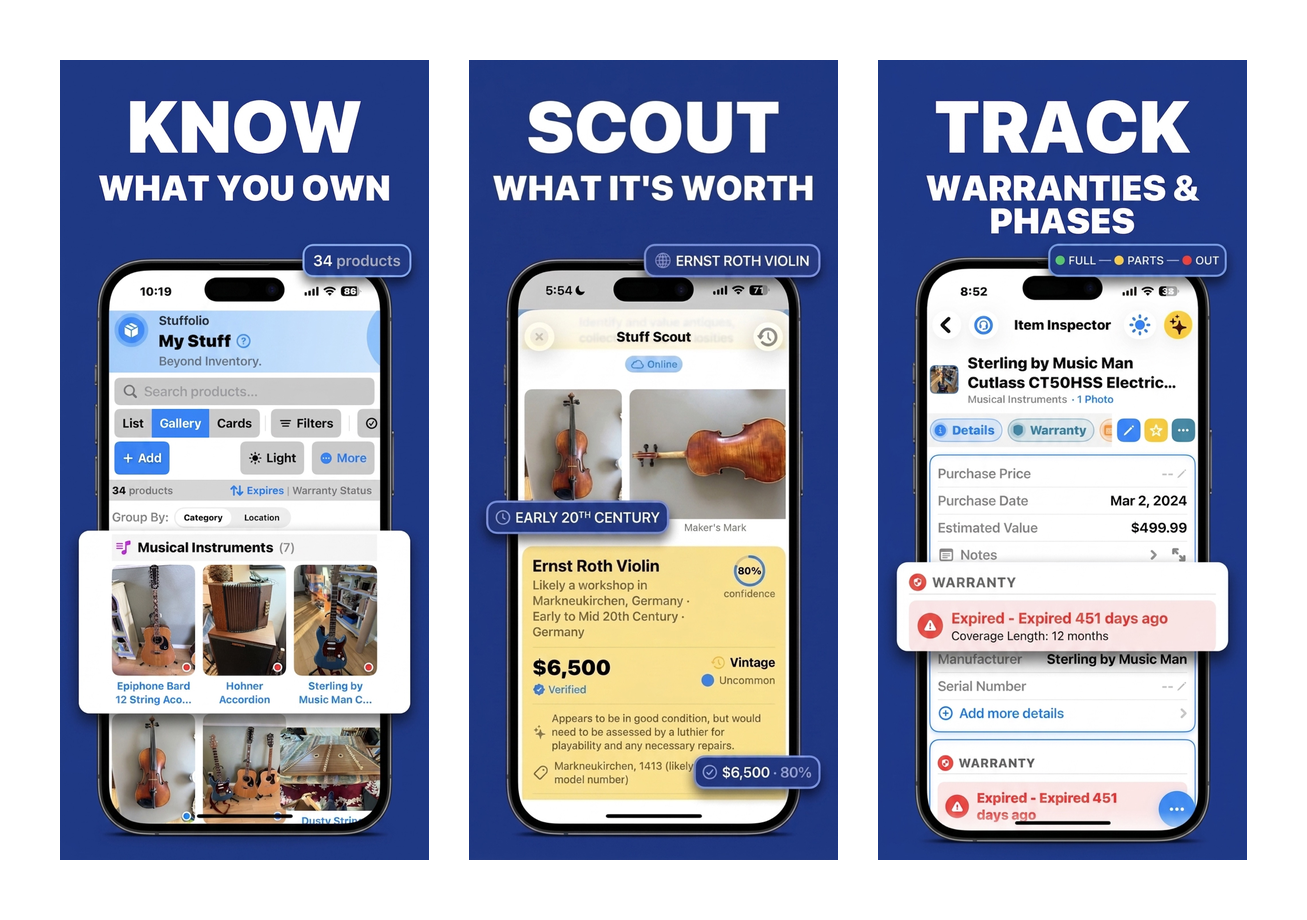
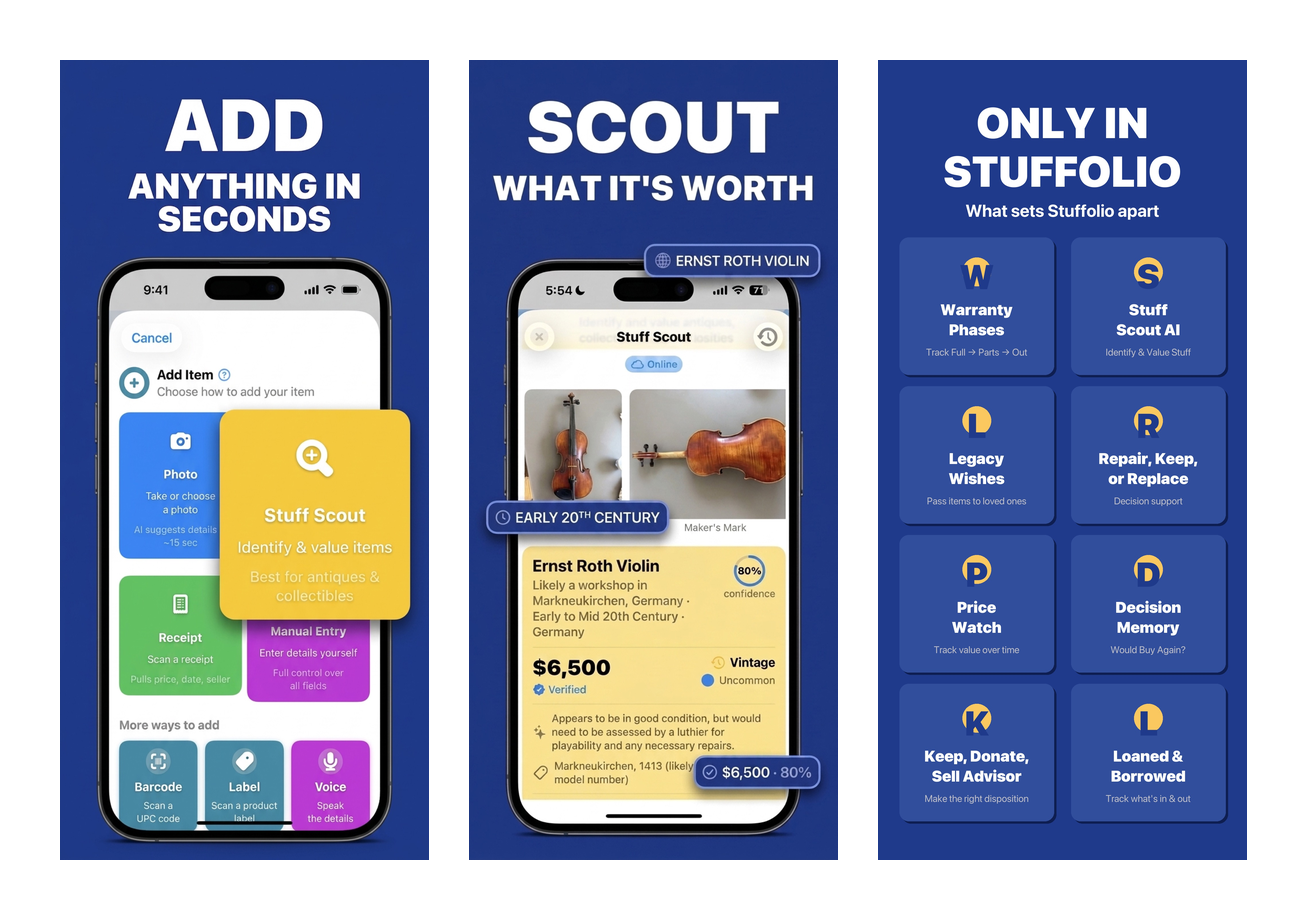
feat(site): refresh ASO screenshots set (6 → 10), swap Decide → Donate/Sell, brand the H1
Summary
- Refresh hero showcase image (new ADD / SCOUT / ONLY IN STUFFOLIO three-up)
- Expand iOS lightbox set from 6 → 10 screenshots (add ADD ANYTHING IN SECONDS at slot 1, SCOUT THRIFT FINDS at slot 8, full-bleed info graphics ONLY IN STUFFOLIO and HONEST PRICING at slots 9-10)
- Swap slot 6 from "Decide: Repair, Keep, or Replace" to "Donate or Sell Advisor" (clean device-frame composition showing $264 donate vs $1,044 sell head-to-head decision UI)
- Brand the homepage H1 with the literal word "Stuffolio" colored to logo teal (#2BA5A0 light / #54D2CA dark), "stuff" recolored from animated gradient to solid logo violet (#5A4BF5)
- Remove orphan @user gradientShift CSS now that no element on index.html uses it
- Remove GitHub URL footer from hero showcase (back to 1307×920)

Description

The ASO screenshot set this PR ships is the locked 10-screenshot lineup used for App Store submission as well. iOS carousel order and lightbox order now match App Store Connect slot order exactly. Slot 6 swap reflects the user's choice to feature the Donate-or-Sell decision support over the previous Repair-Keep-Replace advisor (RKR remains as a feature card in slot 9 "Only in Stuffolio" grid).
[…]

diff --git a/index.html b/index.html
@@ -131,17 +131,14 @@
   <style>
     .hero { display: block; }
 
-    .gradient-text {
-      background: linear-gradient(135deg, var(--accent), var(--accent2), var(--accent));
-      background-size: 200% 200%;
-      -webkit-background-clip: text;
-      -webkit-text-fill-color: transparent;
-      background-clip: text;
-      animation: gradientShift 8s ease infinite;
+    .brand-name {
+      color: #54D2CA;
     }
-    @keyframes gradientShift {
-      0%, 100% { background-position: 0% 50%; }
-      50% { background-position: 100% 50%; }
+    html.light-mode .brand-name {
+      color: #2BA5A0;
+    }
+    .stuff-accent {
+      color: #5A4BF5;
     }
 
     .lifecycle-strip {
@@ -472,14 +469,14 @@
             <img loading="lazy" class="stuffolioLogo" src="assets/logo-256.png" alt="Stuffolio logo" width="120" height="120" />
             <div>
               <h1 style="margin-top:0;">
-                Know your <span class="gradient-text">stuff</span>. Take care of it. Decide what's next.
+                <span class="brand-name">Stuffolio</span>: Know your <span class="stuff-accent">stuff</span>. Take care of it. Decide what's next.
               </h1>
-              <address class="byline" itemprop="author"><span itemprop="name">Coffee &amp; Code LLC</span> · <time datetime="2026-05-31">Updated May 2026</time></address>
+              <address class="byline" itemprop="author"><span itemprop="name">Coffee &amp; Code LLC</span> · <time datetime="2026-06-01">Updated June 2026</time></address>
             </div>
           </div>
 
           <figure style="margin:24px 0 8px; text-align:center;">
-            <img loading="lazy" src="assets/app-store-showcase.png" alt="Three Stuffolio iPhone screenshots side by side: Know what you own, Scout what it's worth, Track warranties and phases." width="1307" height="920" style="width:100%; max-width:900px; height:auto; border-radius:14px; box-shadow:0 8px 32px rgba(0,0,0,0.18);" />
+            <img loading="lazy" src="assets/app-store-showcase.png" alt="Three Stuffolio iPhone screenshots side by side: Add anything in seconds, Scout what it's worth, Only in Stuffolio." width="1307" height="920" style="width:100%; max-width:900px; height:auto; border-radius:14px; box-shadow:0 8px 32px rgba(0,0,0,0.18);" />
           </figure>
 
           <p class="lead" style="font-size:1.15rem;">
@@ -888,11 +885,11 @@
             <div class="carousel-container">
               <button class="carousel-nav carousel-prev" data-platform="ios" data-dir="prev" aria-label="Previous screenshot">&#10094;</button>
               <div class="carousel-slide">
-                <img loading="lazy" id="ios-carousel-img" src="Lightbox/iOS%20Screenshots/01-know-what-you-own.jpg" alt="Stuffolio iPhone screenshot: Know what you own" class="carousel-img" role="button" aria-label="View iPhone screenshot in lightbox">
+                <img loading="lazy" id="ios-carousel-img" src="Lightbox/iOS%20Screenshots/01-add-anything-in-seconds.jpg" alt="Stuffolio iPhone screenshot: Add anything in seconds" class="carousel-img" role="button" aria-label="View iPhone screenshot in lightbox">
               </div>
               <button class="carousel-nav carousel-next" data-platform="ios" data-dir="next" aria-label="Next screenshot">&#10095;</button>
             </div>
-            <p id="ios-carousel-caption" class="carousel-caption">Know what you own</p>
+            <p id="ios-carousel-caption" class="carousel-caption">Add anything in seconds</p>
             <div id="ios-carousel-dots" class="carousel-dots"></div>
           </div>
 
@@ -1073,12 +1070,16 @@
 
   <script>
     const iosScreenshots = [
-      { thumb: 'Lightbox/iOS%20Screenshots/01-know-what-you-own.jpg', full: 'Lightbox/iOS%20Screenshots/01-know-what-you-own.jpg', caption: 'Know what you own' },
-      { thumb: 'Lightbox/iOS%20Screenshots/02-scout-what-its-worth.jpg', full: 'Lightbox/iOS%20Screenshots/02-scout-what-its-worth.jpg', caption: "Scout what it's worth" },
-      { thumb: 'Lightbox/iOS%20Screenshots/03-track-warranties.jpg', full: 'Lightbox/iOS%20Screenshots/03-track-warranties.jpg', caption: 'Track warranties & phases' },
-      { thumb: 'Lightbox/iOS%20Screenshots/04-ask-about-anything.jpg', full: 'Lightbox/iOS%20Screenshots/04-ask-about-anything.jpg', caption: 'Ask about anything you own' },
-      { thumb: 'Lightbox/iOS%20Screenshots/05-decide-repair-keep-replace.jpg', full: 'Lightbox/iOS%20Screenshots/05-decide-repair-keep-replace.jpg', caption: 'Decide: repair, keep, or replace' },
-      { thumb: 'Lightbox/iOS%20Screenshots/06-pass-it-along-with-care.jpg', full: 'Lightbox/iOS%20Screenshots/06-pass-it-along-with-care.jpg', caption: 'Pass it along with care' }
+      { thumb: 'Lightbox/iOS%20Screenshots/01-add-anything-in-seconds.jpg', full: 'Lightbox/iOS%20Screenshots/01-add-anything-in-seconds.jpg', caption: 'Add anything in seconds' },
+      { thumb: 'Lightbox/iOS%20Screenshots/02-know-what-you-own.jpg', full: 'Lightbox/iOS%20Screenshots/02-know-what-you-own.jpg', caption: 'Know what you own' },
+      { thumb: 'Lightbox/iOS%20Screenshots/03-scout-what-its-worth.jpg', full: 'Lightbox/iOS%20Screenshots/03-scout-what-its-worth.jpg', caption: "Scout what it's worth" },
+      { thumb: 'Lightbox/iOS%20Screenshots/04-track-warranties.jpg', full: 'Lightbox/iOS%20Screenshots/04-track-warranties.jpg', caption: 'Track warranties & phases' },
+      { thumb: 'Lightbox/iOS%20Screenshots/05-ask-about-anything.jpg', full: 'Lightbox/iOS%20Screenshots/05-ask-about-anything.jpg', caption: 'Ask about anything you own' },
+      { thumb: 'Lightbox/iOS%20Screenshots/06-donate-or-sell.jpg', full: 'Lightbox/iOS%20Screenshots/06-donate-or-sell.jpg', caption: 'Donate or sell advisor' },
+      { thumb: 'Lightbox/iOS%20Screenshots/07-pass-it-along-with-care.jpg', full: 'Lightbox/iOS%20Screenshots/07-pass-it-along-with-care.jpg', caption: 'Pass it along with care' },
+      { thumb: 'Lightbox/iOS%20Screenshots/08-scout-thrift-finds.jpg', full: 'Lightbox/iOS%20Screenshots/08-scout-thrift-finds.jpg', caption: 'Scout thrift finds' },
+      { thumb: 'Lightbox/iOS%20Screenshots/09-only-in-stuffolio.jpg', full: 'Lightbox/iOS%20Screenshots/09-only-in-stuffolio.jpg', caption: 'Only in Stuffolio' },
+      { thumb: 'Lightbox/iOS%20Screenshots/10-honest-pricing.jpg', full: 'Lightbox/iOS%20Screenshots/10-honest-pricing.jpg', caption: 'Honest pricing' }
     ];
 
     const macScreenshots = [